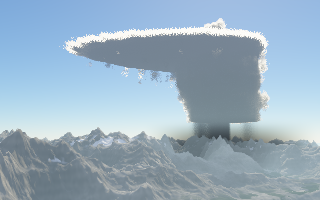
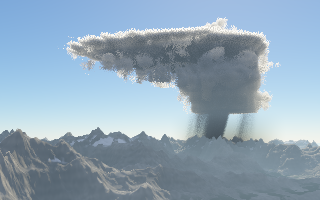
Storm: regress reference, previews, judged crops and docs (#101)
Claude-Session: https://claude.ai/code/session_016y8NtTPdgbbuzzNmswesSy

diff --git a/docs/techniques.html b/docs/techniques.html
@@ -488,14 +488,16 @@ colour = closed-form haze(t) − ShaftDark · HazeCol · L(t)</div>
 <ul>
   <li><strong>Bounds.</strong> A layer can carry an x–z box. Outside it the density is 0 without any noise, and each ray clips its march to the box with a slab test, so its <code>Steps</code> are spent on the storm and the rest of the sky, which would otherwise march the whole band, 130 units tall, costs nothing. <code>fc-storm-bounds</code> sizes the box from the envelope with room for the noise to push it out.</li>
   <li><strong>Shape first.</strong> The <code>Shape</code> is now called before the noise; a value of −1 or less means nothing is there and the noise is skipped. Most of the box is empty air, so most samples cost a little arithmetic.</li>
-  <li><strong>Its own shadow.</strong> The two sun probes see only 18 units into the cloud, which leaves a 100-unit tower lit right through. The layer's <code>LightDepth</code> procedure adds optical depth from five longer steps through the noise-free envelope toward the sun (<code>StormShade</code> per unit of envelope). The side away from the sun, the underside of the anvil and the base go dark; the multiple-scattering term, which falls with the same depth, takes the glow out of the interior.</li>
+  <li><strong>Its own shadow.</strong> The two sun probes see only 18 units into the cloud, which leaves a 100-unit tower lit right through. The layer's <code>LightDepth</code> procedure adds optical depth from five longer steps through the noise-free envelope toward the sun (<code>StormShade</code> per unit of envelope). The side away from the sun, the underside of the anvil and the base go dark; the multiple-scattering term, which falls with the same depth, takes the glow out of the interior. The two short probes have to stay short, though: at 9 and 18 units (issue #101) a sample within about 5 units of the anvil's flat top had nothing between it and the sun, so a thick skin of the anvil was fully lit with a hard inner edge, which read as a white cut-out outline round the whole anvil. The storm probes at 3 and 6 units, about as far as sunlight gets into a dense cloud before it scatters, and the top is lit in a thin, soft rim.</li>
+  <li><strong>Its own sky.</strong> The ambient light is the same at every height of a layer unless something takes it away, so the tower came out as an evenly lit cylinder. A layer's <code>AmbShade</code> procedure scales a sample's sky light; the storm's probes the density once a few units straight up, so the undersides of the billows, the base and the underside of the anvil lose the sky above them, and ramps it down toward the base (<code>StormAmbOcc</code>, <code>StormBaseDark</code>).</li>
 </ul>
-<p>Rain is the layer's ordinary <code>Rain</code>, the cloud a quarter of the way up the tower hung below the base, multiplied by the layer's <code>RainMask</code>: the envelope just above the base through a smoothstep, so the rain thins toward the edge of the tower's foot instead of ending in a wall, times broad shafts of 2-D noise streaked by a finer one. Rain with a mask is lit with the bottom ambient, as the base is, so it reads as dark streaks rather than a pale veil. (<code>RainShafts</code>, a plain shaft noise without the rest, is there for other layers.) Virga come from the shape: under the anvil, down to <code>VirgaLen</code> below it, the anvil's outline one <code>VirgaLen</code> higher is multiplied by a 2-D streak noise, so thin wisps hang only under the anvil and fade downward. The ground under the storm loses the sun through <code>fc-cloud-shadow</code> with three probes up the band (one probe at mid-height would miss the anvil), and, with <code>CloudSkyDim</code>, the sky too: <code>fc-cloud-sky</code> probes straight up the same way, and the terrain scales its sky light and warm bounce by the light that gets through. What is left is the blue part of the sky light, so the shade is darker and cooler.</p>
-<p>From the gallery piece's viewpoint the ground under the storm is mostly behind the front ridge, and with the sun behind the storm the range is in its own shade anyway, so the cloud shadow alone hardly shows. What makes the storm read as coming is the air under it: <code>StormGloom</code> treats the column of air below the base as shaded haze. Each ray's length inside a vertical cylinder around the storm, below the base and short of what it hits, is weighted by depth below the base (integrated in closed form, so the top of the column has no edge) and by how close the ray passes to the axis, and fades the pixel toward a dark grey. The result is a dark wall along the horizon under the base, with the rain shafts in it.</p>
+<p>Rain is the layer's ordinary <code>Rain</code>, the cloud a quarter of the way up the tower hung below the base, multiplied by the layer's <code>RainMask</code>: the envelope just above the base through a smoothstep, so the rain thins toward the edge of the tower's foot instead of ending in a wall, times broad shafts of 2-D noise streaked by a finer one. Rain with a mask is lit with the bottom ambient, as the base is, so it reads as dark streaks rather than a pale veil. (<code>RainShafts</code>, a plain shaft noise without the rest, is there for other layers.) The mask is read where the rain left the base (<code>StormRainSlant</code> downwind per unit fallen, from the sample's height, which <code>fc_clouds</code> leaves in <code>ClRainY</code>), so the shafts lean, and a finer noise streaks them (<code>StormRainFine</code>). Virga come from the shape: under the anvil, down to <code>VirgaLen</code> below it, the anvil's outline one <code>VirgaLen</code> higher, which is larger nearer the underside, is multiplied by a 2-D streak noise, so a curtain of wisps hangs from the underside and fades downward. The ground under the storm loses the sun through <code>fc-cloud-shadow</code> with eight probes up the band (with three, none landed in the anvil, between 152 and 180, so it cast no shadow; issue #101), and, with <code>CloudSkyDim</code>, the sky too: <code>fc-cloud-sky</code> probes straight up the same way, and the terrain scales its sky light and warm bounce by the light that gets through. What is left is the blue part of the sky light, so the shade is darker and cooler. Straight-up probes see only the ground right under the storm, but a storm this size hides a broad part of the sky from the ground for miles round it, so <code>fc_storm</code> also wraps <code>fc-cloud-sky</code>: the ground loses up to <code>StormSkyDim</code> of its sky light, falling off with distance from the tower's axis or the anvil's middle.</p>
+<p>From the gallery piece's viewpoint the ground under the storm is mostly behind the front ridge, and with the sun behind the storm the range is in its own shade anyway, so the cloud shadow alone hardly shows. What makes the storm read as coming is the air under it: <code>StormGloom</code> treats the column of air below the base as shaded haze. Each ray's length inside a vertical cylinder around the storm, below the base and short of what it hits, is weighted by depth below the base (integrated in closed form, so the top of the column has no edge) and by how close the ray passes to the axis, and fades the pixel toward a dark grey. The result is dark air under the base round the rain shafts. Kept narrow and light (issue #101): a wide, dense column was a dark wall that hid the rain and showed the warm tint the tone curve had hidden in the bright horizon.</p>
+<p>The flat grey of the first tower was not the cloud's lighting at all. With the haze switched off it was dark and full of billows; with the cloud's own light switched off it was the same grey. At 460 units even 10% of haze, lit by the bright sky toward the sun, sits on the steep toe of the tone curve and lifts every dark tone of the storm to one mid-grey. The haze in front of the storm is mostly in sunlight, so shading the part in the storm's shadow changed little; the piece uses clearer air (<code>HazeDist</code> 1200) instead.</p>
 <p>Cost, measured with <code>Profile</code> (macOS, one core): the 320×200 preview takes 143 s, of which the clouds are 15 s (0.21 ms per pixel; the gloom 0.1 s), less than the gallery cumulus costs per pixel (0.62 ms on the same crop of <em>Mountains</em>), not the 2–4× more the issue expected. Most samples in the band are empty air, which the shape-first skip makes nearly free; the box clip saves another 15% on a crop of the storm. The terrain dominates the frame.</p>
 <figure>
-  <img src="../gallery/previews/storm-320x200.png" alt="A dark cumulonimbus over a mountain range: a broad tower with a flat dark base and a rain curtain beneath it, an anvil spreading left with a sunlit upper edge, and the range under it in shadow." loading="lazy">
-  <figcaption><em>Oncoming storm</em> (<code>gallery/storm.ps</code>, 320×200).</figcaption>
+  <img src="../gallery/previews/storm-640x400.png" width="640" height="400" alt="A dark cumulonimbus over a mountain range: a broad tower with a flat dark base and a rain curtain beneath it, an anvil spreading left with a sunlit upper edge, and the range under it in shadow." loading="lazy">
+  <figcaption><em>Oncoming storm</em> (<code>gallery/storm.ps</code>, 640×400).</figcaption>
 </figure>
 <p>Not done: lightning (an emissive branching path that also lights the cloud from inside), and a shelf cloud along the gust front. Layers still composite by height, so the storm's band can't share heights with other clouds.</p>
 
